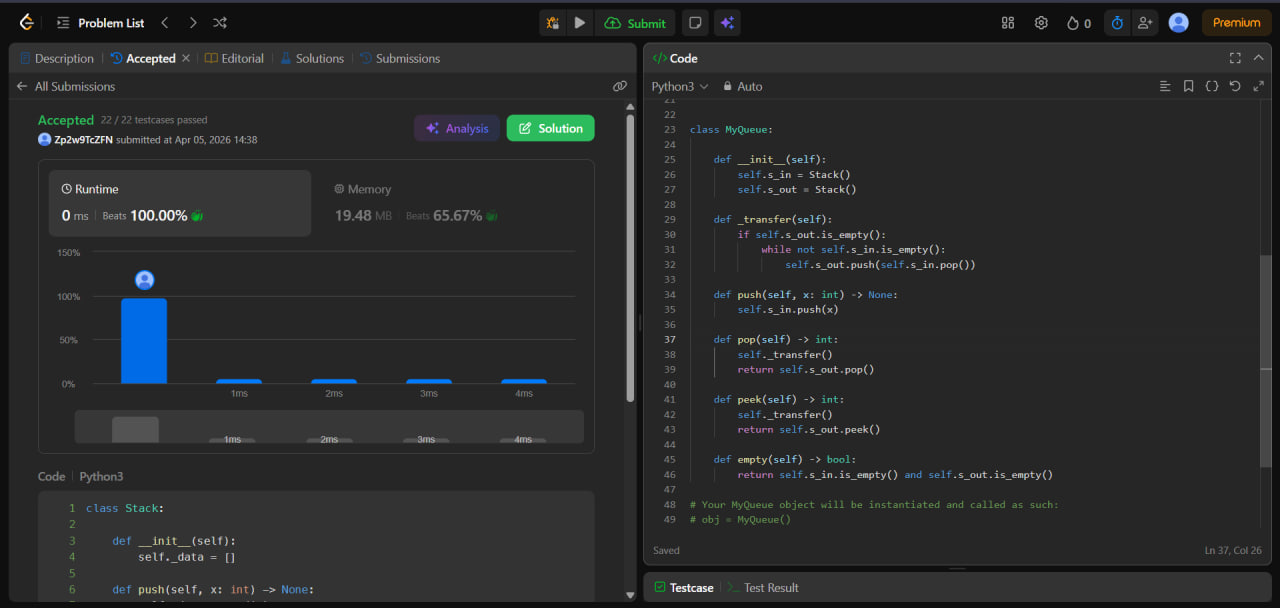
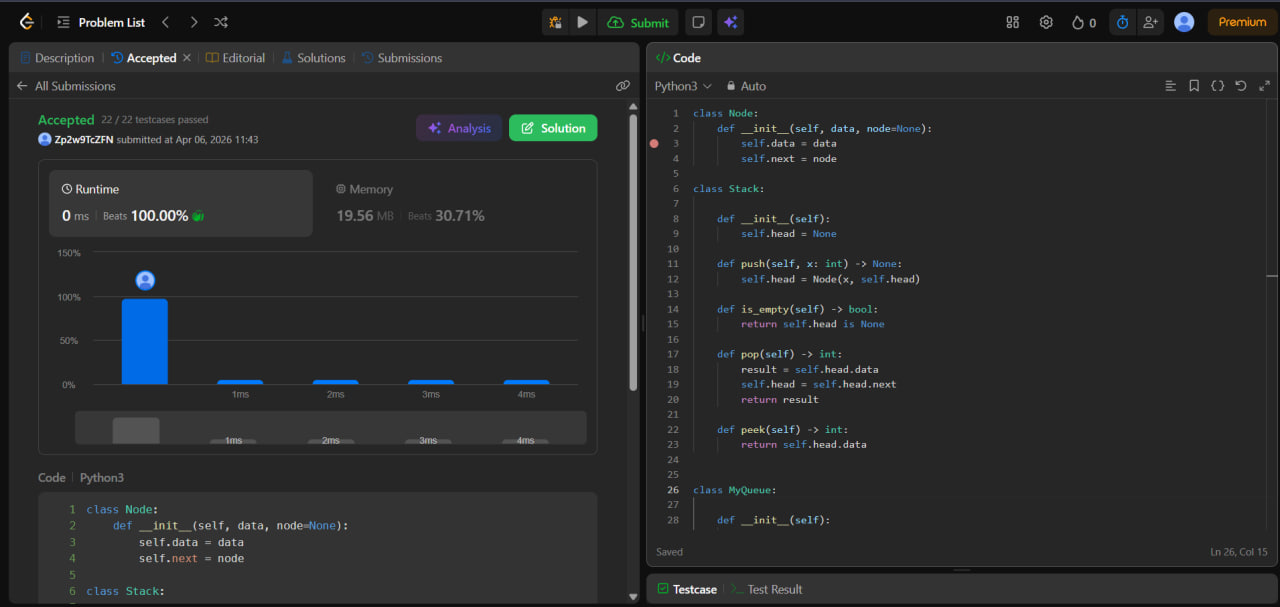
queue_using_stacks
Edit code by using LinkedList
Adding another picture

diff --git a/Queue using Stacks/queue_using_stacks.py b/Queue using Stacks/queue_using_stacks.py
@@ -1,23 +1,26 @@
+class Node:
+    def __init__(self, data, node=None):
+        self.data = data
+        self.next = node
+
 class Stack:
 
     def __init__(self):
-        self._data = []
+        self.head = None
 
     def push(self, x: int) -> None:
-        self._data.append(x)
-
-    def pop(self) -> int:
-        if self._data:
-            return self._data.pop()
-        return None
-
-    def peek(self) -> int:
-        if self._data:
-            return self._data[-1]
-        return None
+        self.head = Node(x, self.head)
 
     def is_empty(self) -> bool:
-        return len(self._data) == 0
+        return self.head is None
+
+    def pop(self) -> int:
+        result = self.head.data
+        self.head = self.head.next
+        return result
+
+    def peek(self) -> int:
+        return self.head.data
 
 
 class MyQueue:
